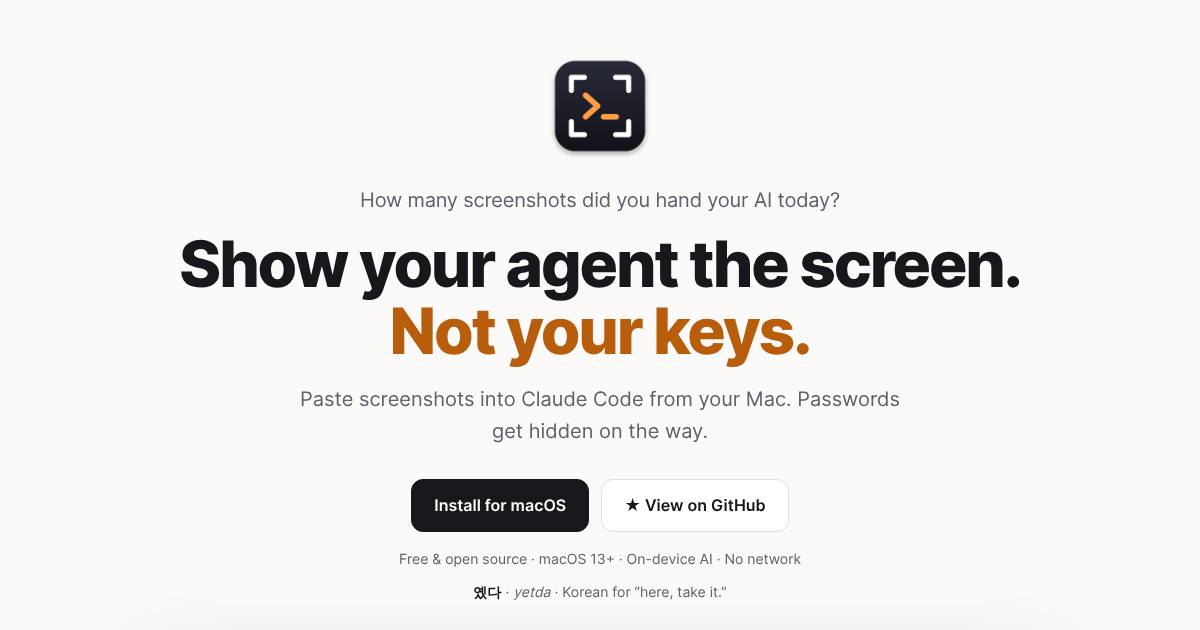
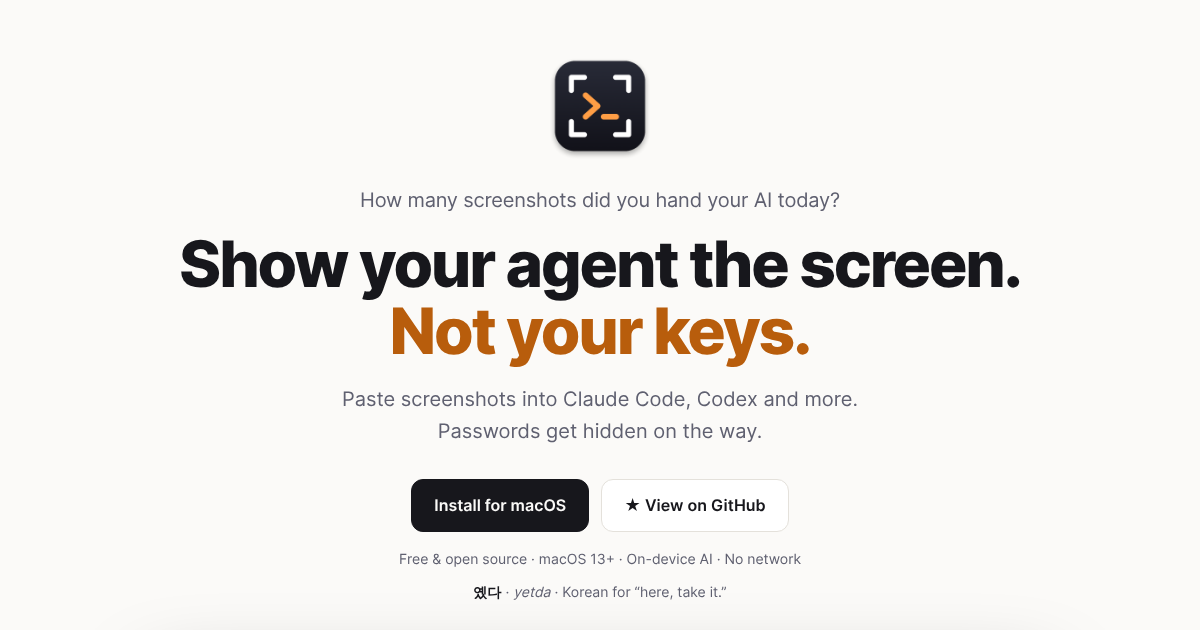
Hero sub: name Codex too
Claude-Session: https://claude.ai/code/session_01Fvs9D4jfzzeqk41wXqDAkK

Changed region(s): [[0.2467, 0.6032, 0.74, 0.6937]]

diff --git a/docs/ja/index.html b/docs/ja/index.html
@@ -373,7 +373,7 @@
     <img class="logo" src="../icon.png" alt="Yetdaのアイコン">
     <p class="hook">今日、AIに何枚スクショを渡しましたか？</p>
     <h1>画面は見せて、<br><span class="hl">鍵は隠す。</span></h1>
-    <p class="sub">Claude Codeにスクショを貼るMacアプリ。パスワードは自動で隠します。</p>
+    <p class="sub">Claude CodeやCodexなどにスクショを貼るMacアプリ。パスワードは自動で隠します。</p>
     <div class="cta">
       <a class="btn primary" href="#install">macOSにインストール</a>
       <a class="btn" href="https://github.com/woonmayer/yetda">★ GitHubで見る</a>

diff --git a/docs/ko/index.html b/docs/ko/index.html
@@ -373,7 +373,7 @@
     <img class="logo" src="../icon.png" alt="Yetda 아이콘">
     <p class="hook">오늘 AI한테 스크린샷 몇 장 넘기셨어요?</p>
     <h1>옜다, 화면.<br><span class="hl">비번은 빼고.</span></h1>
-    <p class="sub">Claude Code에 스크린샷 붙이는 맥 앱. 비번은 알아서 가려요.</p>
+    <p class="sub">Claude Code·Codex 등에 스크린샷 붙이는 맥 앱. 비번은 알아서 가려요.</p>
     <div class="cta">
       <a class="btn primary" href="#install">macOS에 설치</a>
       <a class="btn" href="https://github.com/woonmayer/yetda">★ GitHub에서 보기</a>

diff --git a/docs/index.html b/docs/index.html
@@ -373,7 +373,7 @@
     <img class="logo" src="icon.png" alt="Yetda icon">
     <p class="hook">How many screenshots did you hand your AI today?</p>
     <h1>Show your agent the screen.<br><span class="hl">Not your keys.</span></h1>
-    <p class="sub">Paste screenshots into Claude Code from your Mac. Passwords get hidden on the way.</p>
+    <p class="sub">Paste screenshots into Claude Code, Codex and more. Passwords get hidden on the way.</p>
     <div class="cta">
       <a class="btn primary" href="#install">Install for macOS</a>
       <a class="btn" href="https://github.com/woonmayer/yetda">★ View on GitHub</a>
